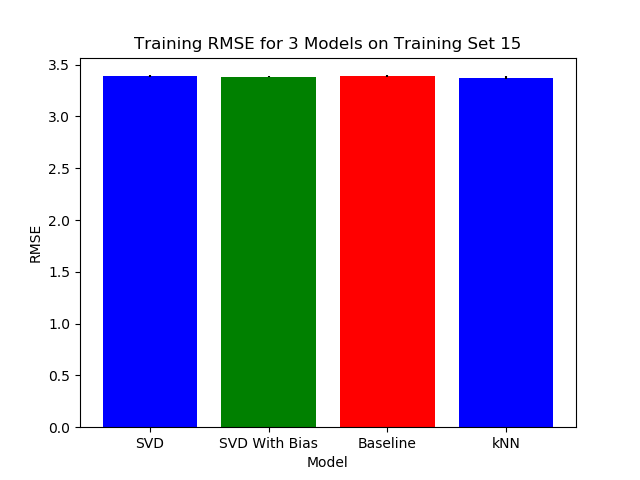
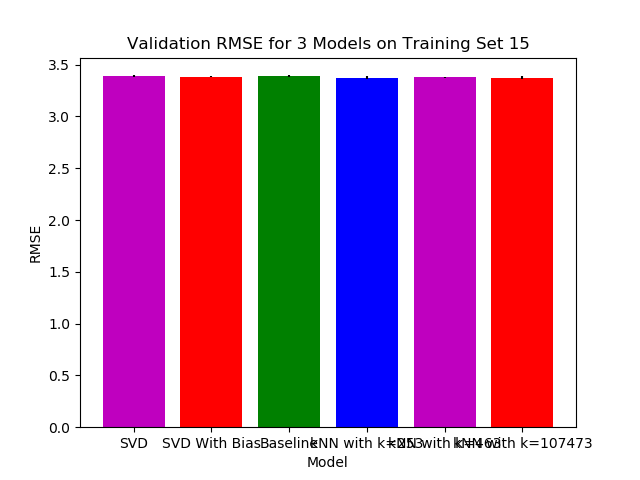
Results save, mostly automated process for graphs
You can generate and edit plots without running the algs over and over again, everything saved and read from csv's

diff --git a/source/latent.py b/source/latent.py
@@ -63,7 +63,7 @@ class DumbBaseline(AlgoBase):
             except: b_i = 0
             return self.the_mean + b_i + b_u
 
-def get_results(setNum, num_factors, reg_term):
+def get_results(setNum, reg_term):
     reader = Reader(rating_scale = (0,10))
     train = pd.read_csv('../data/train_'+str(setNum)+'.csv', sep = ';')
     # test = pd.read_csv('../data/test_update.csv', sep = ';')
@@ -71,8 +71,16 @@ def get_results(setNum, num_factors, reg_term):
     # test_set = Dataset.load_from_df(test[['User-ID', 'ISBN', 'Book-Rating']], reader=reader)
     data = train_set.build_full_trainset()
 
+    num_factors = 50
+    if setNum==10:
+        num_factors_b=200
+    if setNum==15:
+        num_factors_b=400
+    if setNum==30:
+        num_factors_b=600
+
     svd = SVD(n_factors = num_factors, reg_all=reg_term)
-    svd_bias = SVD(n_factors = num_factors, biased=True, reg_all=reg_term)
+    svd_bias = SVD(n_factors = num_factors_b, biased=True, reg_all=reg_term)
     baseline = DumbBaseline()
 
     cv_svd = cross_validate(svd, train_set, n_jobs = -2, return_train_measures=True)
@@ -84,11 +92,60 @@ def get_results(setNum, num_factors, reg_term):
     train_res = [np.mean(cv_svd['train_rmse']), np.mean(cv_svd_bias['train_rmse']),np.mean(cv_baseline['train_rmse'])]
     val_err = [np.std(cv_svd['test_rmse']), np.std(cv_svd_bias['test_rmse']),np.std(cv_baseline['test_rmse'])]
     train_err = [np.std(cv_svd['train_rmse']), np.std(cv_svd_bias['train_rmse']),np.std(cv_baseline['train_rmse'])]
-    algs = ['SVD', 'SVD With Bias', 'Baseline']
+    algs = ['SVD (f='+str(num_factors)+')', 'SVD With Bias (f='+str(num_factors_b)+')', 'Baseline']
 
     return val_res,train_res,val_err,train_err,algs
 
-def plot_from_results(val_res,train_res,val_err,train_err,algs):
+def add_kNN_results(setNum, val_res,train_res,val_err,train_err,algs):
+    if setNum==10:
+        k301 = [3.4330, 0.0130, 3.0850, 0.0024]
+        k547 = [3.4356, 0.0046, 3.0927, 0.0008]
+        k149697 = [3.4343, 0.0099, 3.0977, 0.0026]
+        val_res += [k301[0],k547[0],k149697[0]]
+        val_err += [k301[1],k547[1],k149697[1]]
+        train_res += [k301[2],k547[2],k149697[2]]
+        train_err += [k301[3],k547[3],k149697[3]]
+        algs += ['kNN with k=301', 'kNN with k=547', 'kNN with k=149697']
+    if setNum==15:
+        k253 = [3.3754, 0.0142, 3.0468, 0.0029]
+        k463 = [3.3766, 0.0045, 3.0580, 0.0010]
+        k107473 = [3.3750, 0.0152, 3.0663, 0.0034]
+        val_res += [k253[0],k463[0],k107473[0]]
+        val_err += [k253[1],k463[1],k107473[1]]
+        train_res += [k253[2],k463[2],k107473[2]]
+        train_err += [k253[3],k463[3],k107473[3]]
+        algs += ['kNN with k=253', 'kNN with k=463', 'kNN with k=107473']
+    if setNum==30:
+        k101 = [3.2794, 0.0097, 2.8354, 0.0021]
+        k291 = [3.2765, 0.0279, 2.8973, 0.0069]
+        k43421 = [3.2772, 0.0136, 2.9119, 0.0041]
+        val_res += [k101[0],k291[0],k43421[0]]
+        val_err += [k101[1],k291[1],k43421[1]]
+        train_res += [k101[2],k291[2],k43421[2]]
+        train_err += [k101[3],k291[3],k43421[3]]
+        algs += ['kNN with k=101', 'kNN with k=291', 'kNN with k=43421']
+    
+    return val_res,train_res,val_err,train_err,algs
+
+def read_results(setNum):
+    with open('/Users/annascomputer/Documents/GitHub/ML-Final-Project/results/Testing RMSE for 3 Models on Training Set '+str(setNum)+'.csv', mode='r') as f:
+        r = csv.reader(f, delimiter=',', quotechar='"', quoting=csv.QUOTE_MINIMAL)
+        line_num = 0
+        algs, val_res, val_err, train_res, train_err = [],[],[],[],[]
+        # w.writerow(['Alg', 'Testing Result', 'Testing STD', 'Validation Result', 'Validation STD'])
+        for line in f:
+            if line_num>1:
+                parts = line.rstrip('\n').rstrip('\r').split(',')
+                algs += [parts[0]]
+                val_res += [float(parts[1])]
+                val_err += [float(parts[2])]
+                train_res += [float(parts[3])]
+                train_err += [float(parts[4])]
+            line_num+=1
+        return algs, val_res, val_err, train_res, train_err
+            # w.writerow([algs[i], test_res[i], test_err[i], train_res[i], train_err[i]])
+
+def plot_from_results(val_res,train_res,val_err,train_err,algs, setNum):
     # First Bar Chart for Validation
     plt.bar(algs, val_res, yerr=val_err, color=['m', 'r', 'g', 'b'])
     plt.title('Validation RMSE for 3 Models on Training Set '+str(setNum))
@@ -106,12 +163,11 @@ def plot_from_results(val_res,train_res,val_err,train_err,algs):
     plt.show()
 
     # Save data from these charts
-    with open('/Users/annascomputer/Documents/GitHub/ML-Final-Project/Testing RMSE for 3 Models on Training Set '+str(setNum)+'.csv', mode='w') as f:
+    with open('/Users/annascomputer/Documents/GitHub/ML-Final-Project/results/Testing RMSE for 3 Models on Training Set '+str(setNum)+'.csv', mode='w') as f:
         w = csv.writer(f, delimiter=',', quotechar='"', quoting=csv.QUOTE_MINIMAL)
-        w.writerow(['Factors = ' + str(num_factors)+ ', Reg = '+ str(reg_term)])
-        w.writerow(['Alg', 'Testing Result', 'Testing STD', 'Validation Result', 'Validation STD'])
+        w.writerow(['Alg', 'Validation Result', 'Validation STD', 'Training Result', 'Training STD'])
         for i in range(len(val_err)):
-            w.writerow([algs[i], test_res[i], test_err[i], train_res[i], train_err[i]])
+            w.writerow([algs[i], val_res[i], val_err[i], train_res[i], train_err[i]])
 
 def vary_factors(setNum, n_factors):
     reader = Reader(rating_scale = (0,10))
@@ -159,8 +215,11 @@ def main():
 
     #--------- JUST GET RESULTS FROM MODELS -------#
     ## get_results takes in: setNum, factors, reg term
-    val_res,train_res,val_err,train_err,test_res,algs = get_results(10, 200, 0.2) 
-    plot_from_results(val_res,train_res,val_err,train_err,test_res,algs)
+    setNum = 30
+    val_res,train_res,val_err,train_err,algs = get_results(setNum, 0.2) 
+    # algs, val_res, val_err, train_res, train_err = read_results(setNum)
+    # val_res,train_res,val_err,train_err,algs = add_kNN_results(setNum, val_res,train_res,val_err,train_err,algs)
+    plot_from_results(val_res,train_res,val_err,train_err,algs, setNum)
     #--------------------------------------------------#
 
     #--------- VARYING FACTORS AND MAKING PLOT -------#
@@ -168,13 +227,13 @@ def main():
     ## FACTOR RANGE 1: [2,3,5,7,10,15,25,50,100,150,200,250,300,350,400]
     ## FACTOR RANGE 2: [100,200,300,400,500,600,700]
     n_factors = [100,200,300,400,500,600,700]
-    train_errors, val_errors = vary_factors(15, n_factors)
+    # train_errors, val_errors = vary_factors(15, n_factors)
     # Note: If you don't want to run above (costly) the results are below for Frange2
     # train_errors = [0.8161, 0.5196, 0.3847, 0.3041, 0.2519, 0.2154, 0.1891]
     # val_errors = [3.4995, 3.4517, 3.4271, 3.4170,  3.4123, 3.4110, 3.4113]
     
     
-    plot_factors(n_factors, train_errors, val_errors)
+    # plot_factors(n_factors, train_errors, val_errors)
     #--------------------------------------------------#
 
     #--------       Grid Search Call    ---------------#
